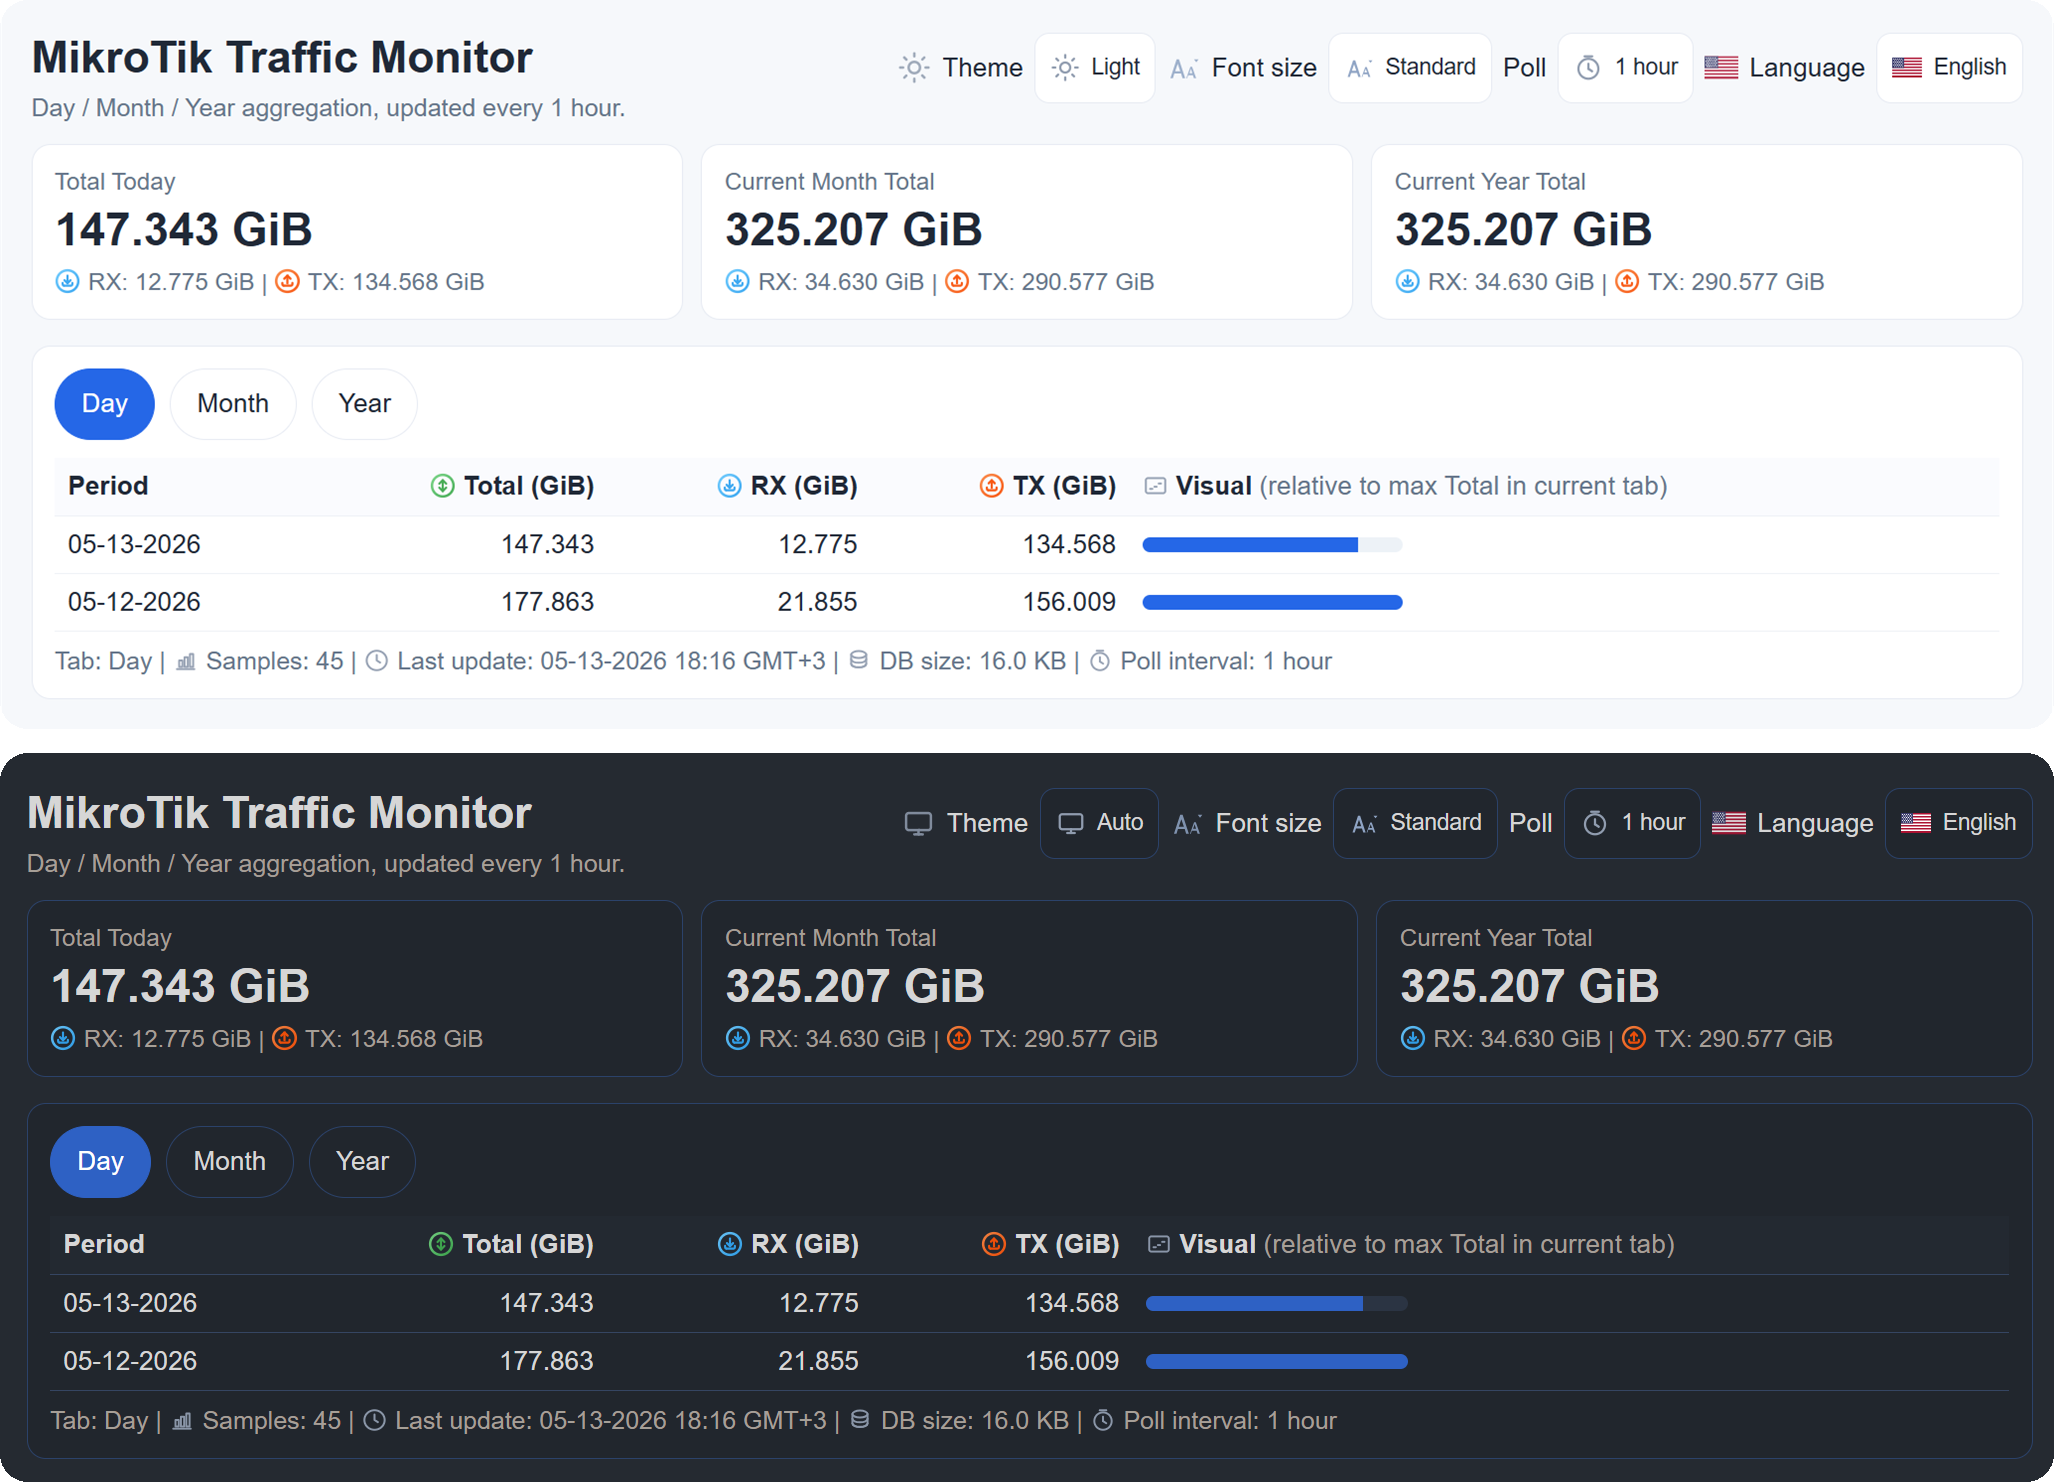
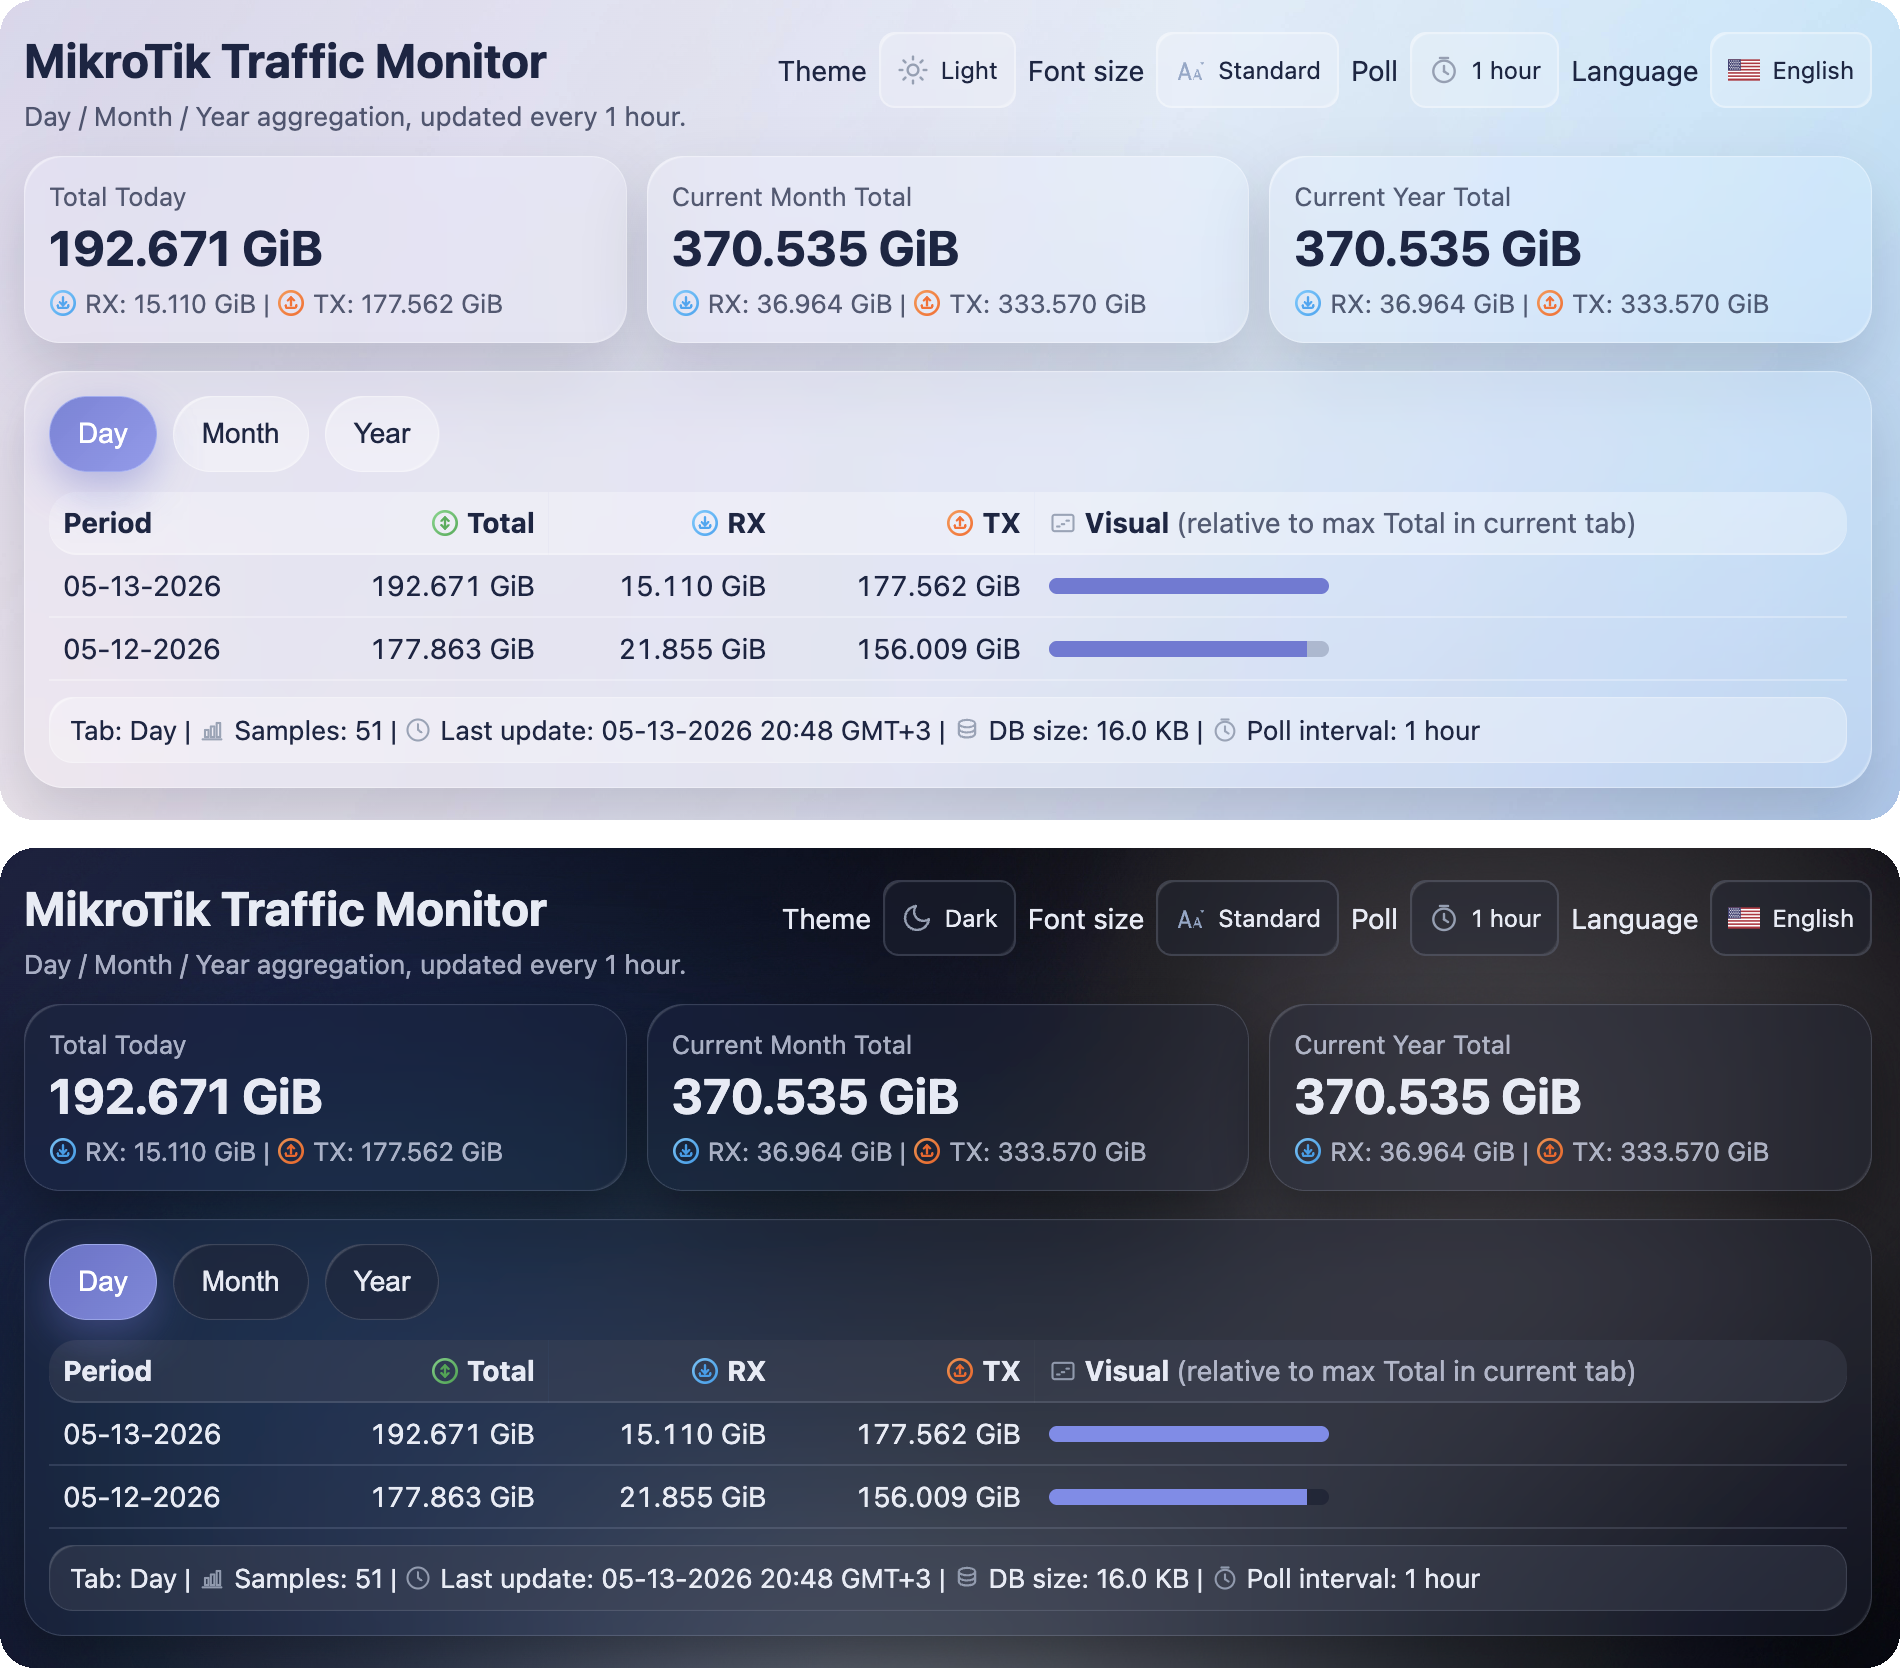
ui: apply frosted-glass theme and refresh transparent rounded preview

diff --git a/app/www/index.html b/app/www/index.html
@@ -6,73 +6,151 @@
   <title>MikroTik Traffic Monitor</title>
   <style>
     :root {
-      --bg: #f6f8fb;
-      --card: #ffffff;
-      --border: #e6eaf2;
-      --text: #1f2937;
-      --muted: #64748b;
-      --blue: #2563eb;
-      --table-head: #fafbfe;
-      --table-border: #eef1f6;
-      --bar-bg: #edf2f7;
+      --bg: #eef1f8;
+      --card: rgba(254, 255, 255, 0.2);
+      --card-strong: rgba(254, 255, 255, 0.28);
+      --border: rgba(255, 255, 255, 0.35);
+      --text: rgba(18, 24, 54, 0.98);
+      --muted: rgba(18, 24, 54, 0.72);
+      --blue: #6a74d3;
+      --table-head: rgba(255, 255, 255, 0.14);
+      --table-border: rgba(255, 255, 255, 0.28);
+      --bar-bg: rgba(30, 43, 79, 0.24);
+      --glass-blur: blur(12px) saturate(1.18);
+      --glass-shadow: 0 14px 30px rgba(13, 17, 39, 0.16);
+      --glass-inset:
+        2px 2px 0.5px -2px rgba(255, 255, 255, 0.45) inset,
+        -2px -2px 0.5px -2px rgba(255, 255, 255, 0.22) inset;
+      --wallpaper-url: url('https://cdn.jsdelivr.net/gh/wessamlauf/homeassistant-frosted-glass-themes@refs/heads/main/themes/frosted-glass-light-background.jpg');
       --base-font-size: clamp(14px, .35vw + 12px, 18px);
       --font-scale: 1;
     }
     html[data-theme="dark"] {
-      --bg: #252a31;
-      --card: #21262d;
-      --border: #2a416b;
-      --text: #d6d6d6;
-      --muted: #a69f96;
-      --blue: #2d5ec7;
-      --table-head: #232931;
-      --table-border: #344463;
-      --bar-bg: #2a3443;
+      --bg: #11162a;
+      --card: rgba(22, 27, 46, 0.34);
+      --card-strong: rgba(22, 27, 46, 0.48);
+      --border: rgba(220, 230, 255, 0.16);
+      --text: rgba(234, 238, 248, 0.98);
+      --muted: rgba(214, 221, 243, 0.75);
+      --blue: #7a87ea;
+      --table-head: rgba(255, 255, 255, 0.06);
+      --table-border: rgba(210, 221, 255, 0.13);
+      --bar-bg: rgba(9, 12, 26, 0.4);
+      --glass-blur: blur(12px) saturate(1.2);
+      --glass-shadow: 0 14px 30px rgba(0, 0, 0, 0.38);
+      --glass-inset:
+        2px 2px 0.5px -2px rgba(255, 255, 255, 0.16) inset,
+        -2px -2px 0.5px -2px rgba(255, 255, 255, 0.08) inset;
+      --wallpaper-url: url('https://cdn.jsdelivr.net/gh/wessamlauf/homeassistant-frosted-glass-themes@refs/heads/main/themes/frosted-glass-dark-background.jpg');
     }
     html[data-font-size="25"] { --base-font-size: 14px; --font-scale: 0.8; }
     html[data-font-size="50"] { --base-font-size: 14px; --font-scale: 1; }
     html[data-font-size="100"] { --base-font-size: 14px; --font-scale: 1.25; }
-    body { margin: 0; padding: 20px; background: var(--bg); color: var(--text); font-family: Arial, sans-serif; font-size: calc(var(--base-font-size) * var(--font-scale)); }
+    body {
+      margin: 0;
+      padding: 20px;
+      min-height: 100vh;
+      background:
+        radial-gradient(130% 120% at 0% 0%, rgba(106, 116, 211, 0.26), rgba(106, 116, 211, 0) 48%),
+        radial-gradient(120% 120% at 100% 100%, rgba(122, 135, 234, 0.22), rgba(122, 135, 234, 0) 44%),
+        var(--wallpaper-url) center / cover no-repeat fixed,
+        var(--bg);
+      color: var(--text);
+      font-family: -apple-system, BlinkMacSystemFont, "Segoe UI", Roboto, Helvetica, Arial, sans-serif;
+      font-size: calc(var(--base-font-size) * var(--font-scale));
+    }
     h1 { margin: 0 0 6px; font-size: 1.7em; }
     .subtitle { color: var(--muted); margin-bottom: 12px; font-size: 0.95em; }
     .kpis { display: grid; grid-template-columns: repeat(auto-fit, minmax(180px, 1fr)); gap: 10px; margin-bottom: 14px; }
-    .kpi { background: var(--card); border: 1px solid var(--border); border-radius: 10px; padding: 12px; }
+    .kpi {
+      background: var(--card);
+      border: 0.5px solid var(--border);
+      border-radius: 18px;
+      padding: 12px;
+      backdrop-filter: var(--glass-blur);
+      -webkit-backdrop-filter: var(--glass-blur);
+      box-shadow: var(--glass-shadow), var(--glass-inset);
+    }
     .kpi .label { font-size: 0.92em; color: var(--muted); margin-bottom: 4px; }
     .kpi .val { font-size: 1.75em; font-weight: bold; }
     .kpi .sub { font-size: 0.92em; color: var(--muted); margin-top: 6px; }
-    .card { background: var(--card); border: 1px solid var(--border); border-radius: 10px; padding: 12px; }
+    .card {
+      background: var(--card);
+      border: 0.5px solid var(--border);
+      border-radius: 20px;
+      padding: 12px;
+      backdrop-filter: var(--glass-blur);
+      -webkit-backdrop-filter: var(--glass-blur);
+      box-shadow: var(--glass-shadow), var(--glass-inset);
+    }
     .tabs { display: flex; gap: 8px; margin-bottom: 10px; flex-wrap: wrap; }
-    .tab { border: 1px solid var(--border); background: var(--card); color: var(--text); border-radius: 999px; padding: 8px 14px; min-height: 38px; font-size: 1em; cursor: pointer; }
-    .tab.active { background: var(--blue); color: #fff; border-color: var(--blue); }
-    table { width: 100%; border-collapse: collapse; font-size: 1em; }
+    .tab {
+      border: 0.5px solid var(--border);
+      background: color-mix(in srgb, var(--card-strong) 80%, transparent);
+      color: var(--text);
+      border-radius: 999px;
+      padding: 8px 14px;
+      min-height: 38px;
+      font-size: 1em;
+      cursor: pointer;
+      backdrop-filter: blur(8px);
+      -webkit-backdrop-filter: blur(8px);
+      box-shadow: var(--glass-inset);
+    }
+    .tab.active {
+      background: linear-gradient(135deg, rgba(106, 116, 211, 0.92), rgba(133, 141, 236, 0.9));
+      color: #fff;
+      border-color: rgba(182, 196, 255, 0.55);
+      box-shadow: 0 8px 20px rgba(96, 104, 198, 0.42);
+    }
+    table { width: 100%; border-collapse: separate; border-spacing: 0; font-size: 1em; }
     th, td { text-align: left; border-bottom: 1px solid var(--table-border); padding: 7px; }
-    th { background: var(--table-head); }
+    th { background: var(--table-head); backdrop-filter: blur(6px); -webkit-backdrop-filter: blur(6px); }
+    thead th:first-child {
+      border-top-left-radius: 14px;
+      border-bottom-left-radius: 14px;
+    }
+    thead th:last-child {
+      border-top-right-radius: 14px;
+      border-bottom-right-radius: 14px;
+    }
     .expander { border: 0; background: transparent; color: var(--muted); cursor: pointer; padding: 0 6px 0 0; font-size: 12px; }
     .expander-empty { display: inline-block; width: 12px; margin-right: 6px; }
-    .detail-row td { background: var(--table-head); }
+    .detail-row td { background: color-mix(in srgb, var(--table-head) 78%, transparent); }
     .detail-period { padding-left: 24px; color: var(--muted); }
     .num { text-align: right; font-variant-numeric: tabular-nums; }
     .bar-wrap { width: 140px; max-width: 100%; height: 8px; border-radius: 999px; background: var(--bar-bg); overflow: hidden; }
     .bar { height: 8px; background: var(--blue); }
-    .meta { margin-top: 8px; color: var(--muted); font-size: 0.95em; }
+    .meta {
+      margin-top: 8px;
+      color: var(--text);
+      font-size: 0.95em;
+      background: var(--table-head);
+      border: 0.5px solid var(--table-border);
+      border-radius: 12px;
+      padding: 8px 10px;
+      backdrop-filter: blur(8px);
+      -webkit-backdrop-filter: blur(8px);
+      box-shadow: var(--glass-inset);
+    }
     .topbar { display: flex; justify-content: space-between; align-items: flex-start; gap: 10px; }
     .controls { display: flex; gap: 6px; align-items: center; flex-wrap: wrap; justify-content: flex-end; }
     .control { display: flex; align-items: center; gap: 6px; font: inherit; color: var(--text); }
     .control-icon { width: 18px; height: 18px; display: inline-flex; align-items: center; justify-content: center; color: var(--muted); }
     .control-icon img { width: 18px; height: 18px; display: block; opacity: .85; }
     .lang-dropdown { position: relative; width: fit-content; min-width: 0; }
-    .lang-toggle { display: inline-flex; align-items: center; gap: 6px; border: 1px solid var(--border); border-radius: 10px; background: var(--card); color: var(--text); padding: 5px 9px; min-height: 38px; font: inherit; cursor: pointer; }
+    .lang-toggle { display: inline-flex; align-items: center; gap: 6px; border: 0.5px solid var(--border); border-radius: 12px; background: var(--card-strong); color: var(--text); padding: 5px 9px; min-height: 38px; font: inherit; cursor: pointer; backdrop-filter: blur(8px); -webkit-backdrop-filter: blur(8px); box-shadow: var(--glass-inset); }
     .lang-toggle img { width: 16px; height: 16px; display: block; }
     .lang-caret { color: var(--muted); font-size: 10px; }
-    .lang-menu { position: absolute; right: 0; top: calc(100% + 6px); min-width: 0; border: 1px solid var(--border); border-radius: 8px; background: var(--card); box-shadow: 0 6px 20px rgba(0,0,0,.12); display: none; z-index: 30; padding: 3px; }
+    .lang-menu { position: absolute; right: 0; top: calc(100% + 6px); min-width: 0; border: 0.5px solid var(--border); border-radius: 10px; background: var(--card-strong); box-shadow: var(--glass-shadow); display: none; z-index: 30; padding: 3px; backdrop-filter: blur(12px); -webkit-backdrop-filter: blur(12px); }
     .lang-menu.open { display: block; }
     .lang-item { width: 100%; display: flex; align-items: center; gap: 8px; border: 0; background: transparent; color: var(--text); border-radius: 8px; padding: 7px 9px; min-height: 38px; font: inherit; text-align: left; cursor: pointer; }
     .lang-item:hover { background: var(--table-head); }
     .lang-item img { width: 16px; height: 16px; display: block; }
     .theme-dropdown { position: relative; width: fit-content; min-width: 0; }
-    .theme-toggle { display: inline-flex; align-items: center; gap: 6px; border: 1px solid var(--border); border-radius: 10px; background: var(--card); color: var(--text); padding: 5px 9px; min-height: 38px; font: inherit; cursor: pointer; }
+    .theme-toggle { display: inline-flex; align-items: center; gap: 6px; border: 0.5px solid var(--border); border-radius: 12px; background: var(--card-strong); color: var(--text); padding: 5px 9px; min-height: 38px; font: inherit; cursor: pointer; backdrop-filter: blur(8px); -webkit-backdrop-filter: blur(8px); box-shadow: var(--glass-inset); }
     .theme-toggle img { width: 16px; height: 16px; display: block; }
-    .theme-menu { position: absolute; right: 0; top: calc(100% + 6px); min-width: 0; border: 1px solid var(--border); border-radius: 8px; background: var(--card); box-shadow: 0 6px 20px rgba(0,0,0,.12); display: none; z-index: 30; padding: 3px; }
+    .theme-menu { position: absolute; right: 0; top: calc(100% + 6px); min-width: 0; border: 0.5px solid var(--border); border-radius: 10px; background: var(--card-strong); box-shadow: var(--glass-shadow); display: none; z-index: 30; padding: 3px; backdrop-filter: blur(12px); -webkit-backdrop-filter: blur(12px); }
     .theme-menu.open { display: block; }
     .theme-item { width: 100%; white-space: nowrap; display: flex; align-items: center; gap: 8px; border: 0; background: transparent; color: var(--text); border-radius: 8px; padding: 7px 9px; min-height: 38px; font: inherit; text-align: left; cursor: pointer; }
     .theme-item:hover { background: var(--table-head); }